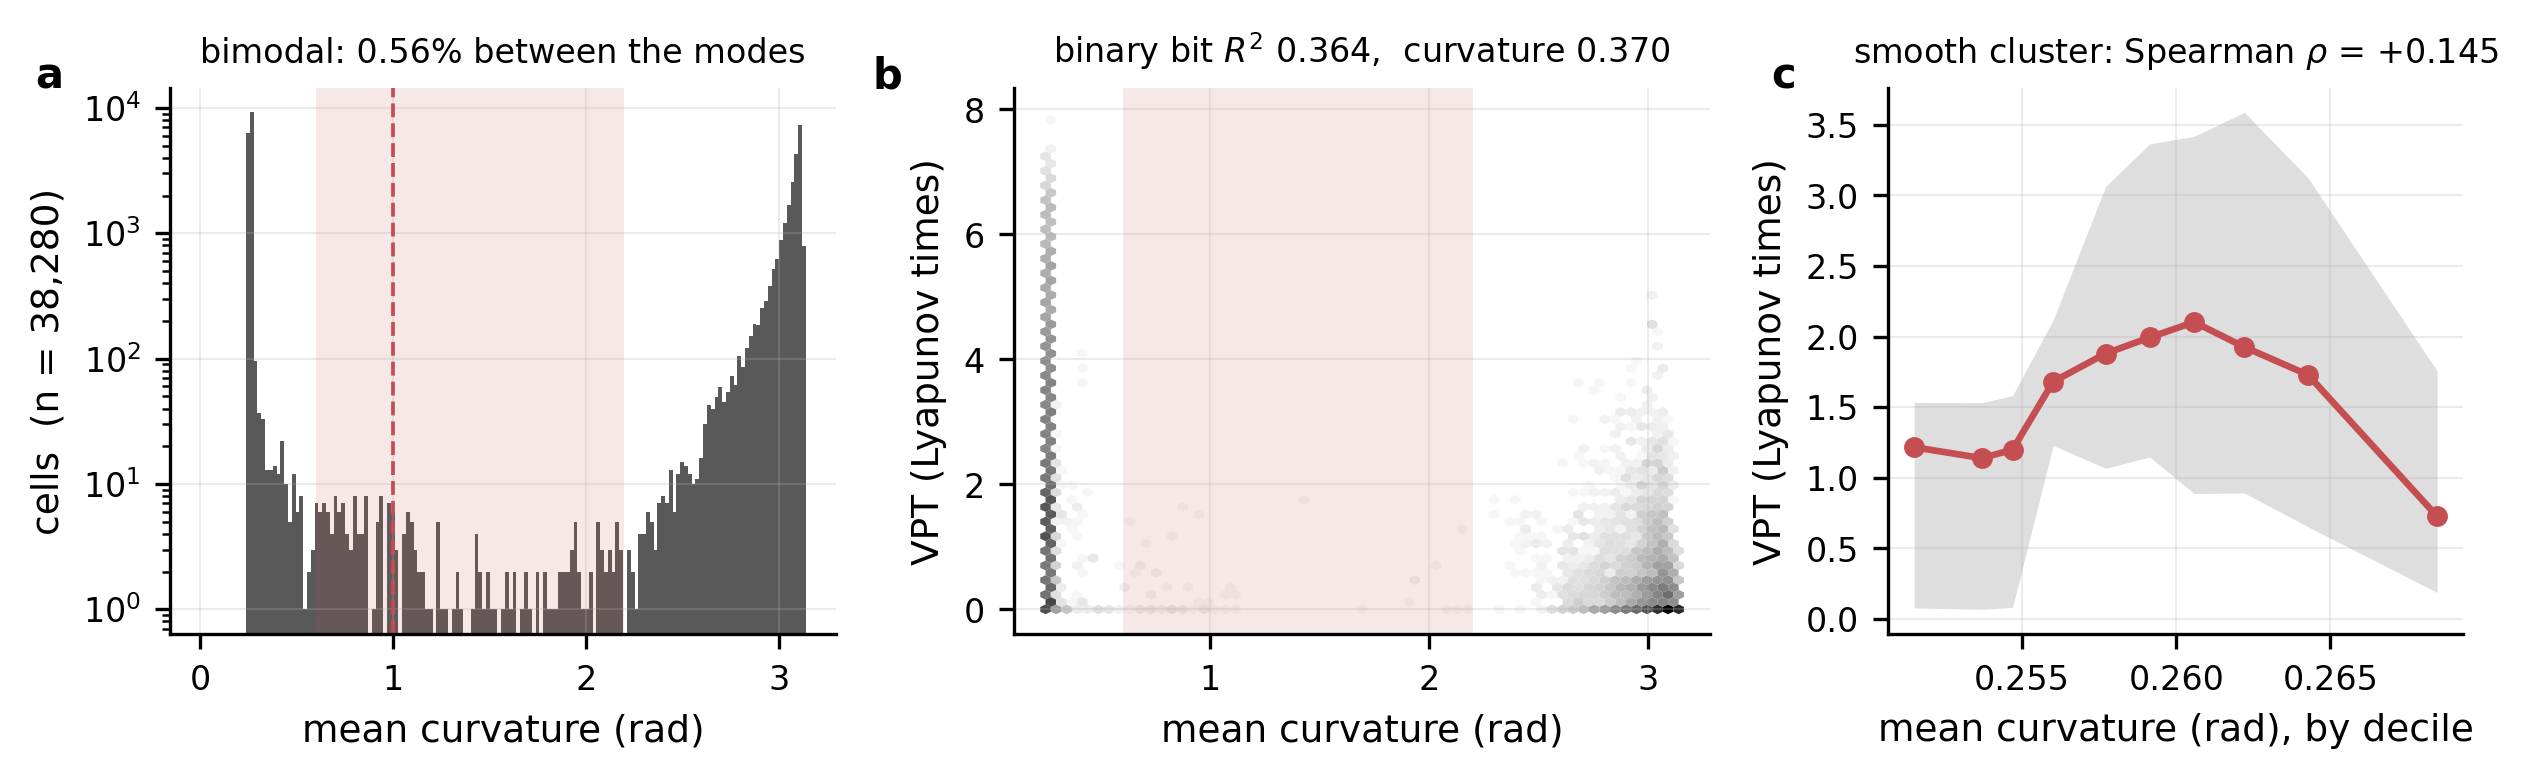
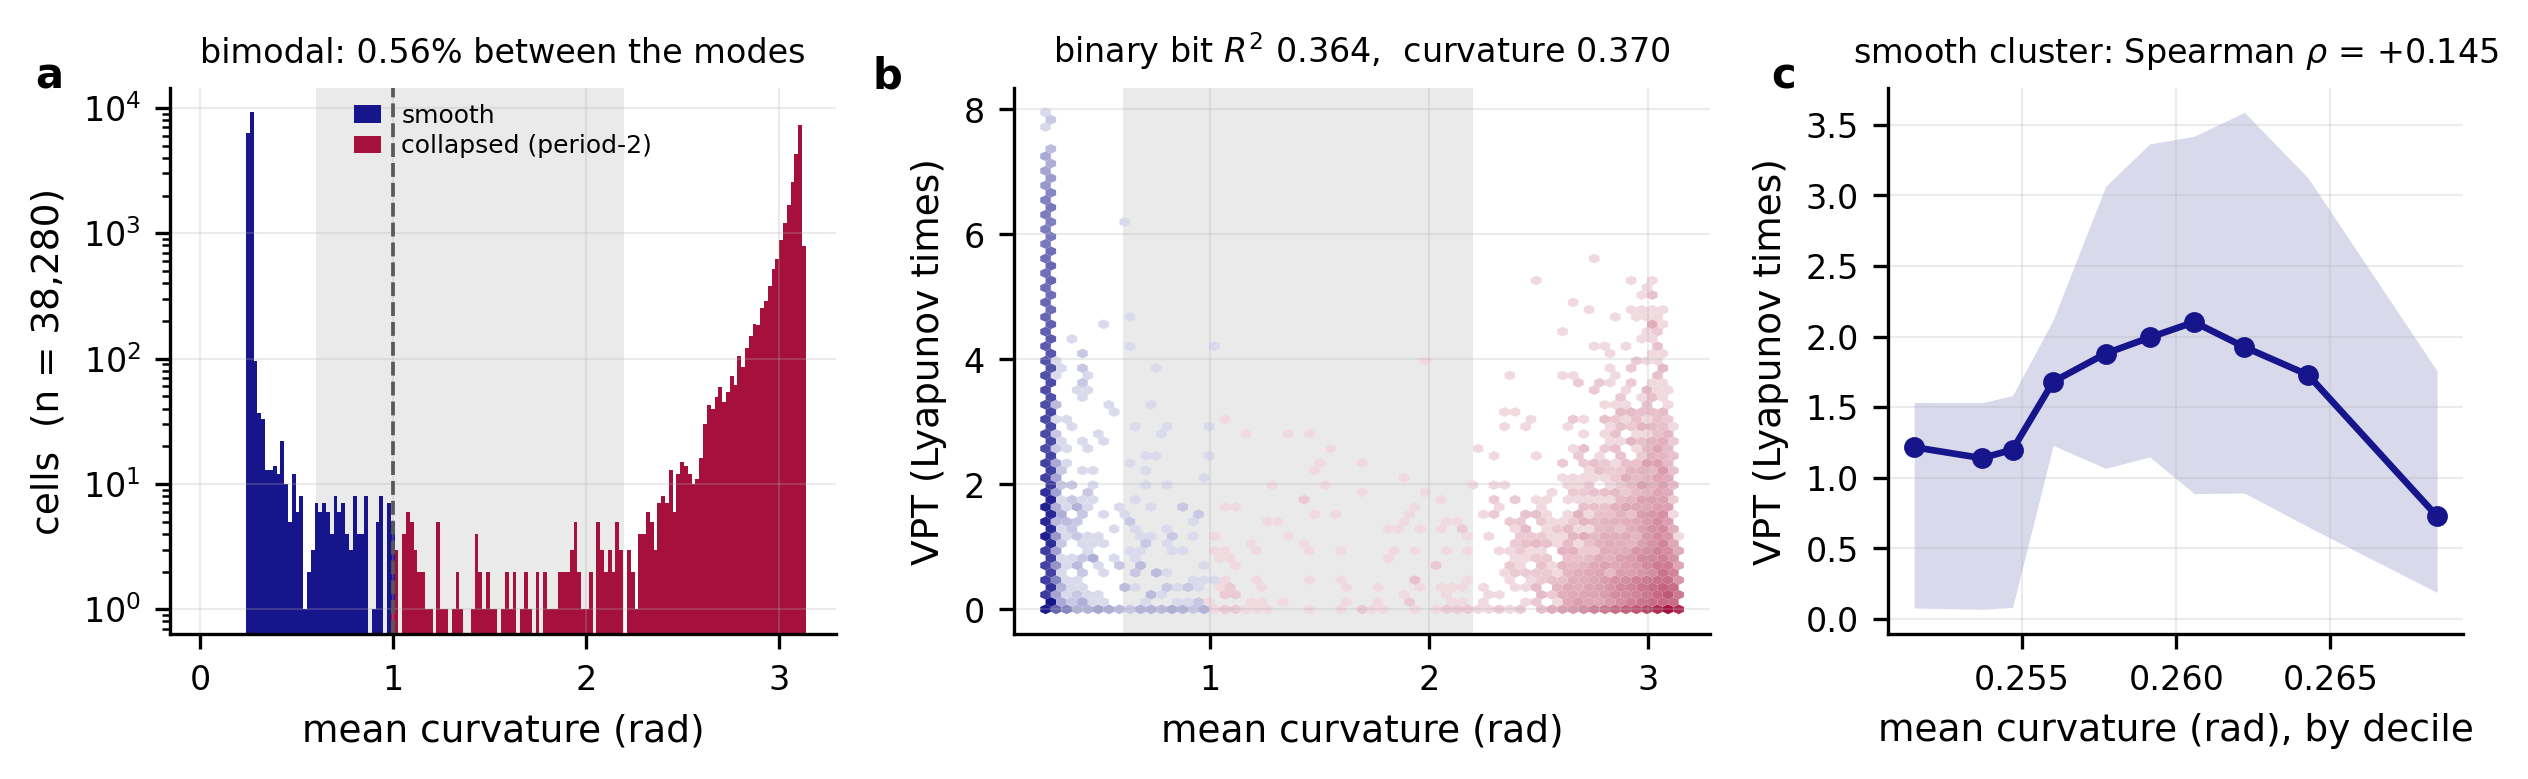
feat(F12): colour cells by the collapse bit; add a measured regime palette
F12's panels were grey. They are now coloured by which side of the collapse
separator each cell falls on, which makes the colour the binary bit whose
R2 panel (b) reports -- the figure shows what the bit is instead of asking
the reader to take it on trust. Panels (a) and (b) draw two series each,
panel (c) takes the smooth colour because it is the smooth cluster, and the
band and separator drop to neutral grey so furniture stops competing with
the two colours that now carry meaning.

style.REGIME_COLOUR joins VARIANT/BASIS/BOUNDARY/AXIS as a fourth small
namespace, on the same principle: a regime is not a substrate.

Chosen by measurement, and the measurement overturned the first choice.
ColorBrewer RdBu's blue/red was picked first on the grounds that RdBu is
certified colourblind-safe -- true, and not the question. Run through
style._lab, the module's existing Vienot/Brettel simulation, that pair sits
dE 0.7 from degree-matching's #0072B2 under one dichromacy: a substrate hue
on a non-substrate quantity, thesis-wide, and it looked fine by eye. A grid
search over 384 inks gives indigo #17158c / crimson #a5103d instead --
dE 22.9 from every substrate colour against the comparable existing floor of
8.0, dE 10.4 from every furniture colour, dE 56.5 between the regimes.

check_regime_palette() re-derives those numbers and runs in the smoke entry
point, next to check_basis_palette(). Greyscale separation is weak (0.026
[…]

diff --git a/report/figlib/style.py b/report/figlib/style.py
@@ -190,6 +190,58 @@ AXIS_SHORT = {"nominal": "nominal", "effective": r"$\sigma\cdot$bulk95"}
 # the nominal axis is one colour everywhere it is set against the matched one.
 AXIS_COLOUR = {"nominal": "#1f77b4", "effective": "#c44e52"}
 
+# ------------------------------------------------------------------------- regimes
+# The two dynamical regimes: smooth (the fixed-point branch) and collapsed (period-2).
+# A fourth small namespace, added in session 4 for exactly the reason BOUNDARY_COLOUR and
+# AXIS_COLOUR exist -- a regime is not a substrate, and one regime should be one colour
+# wherever it appears. F12 colours its cells by which side of the collapse separator they
+# fall on; S2 contrasts the same two regimes directly.
+#
+# **Colour is carrying the claim here, not decorating.** F12's result is that a single
+# binary bit -- collapsed or not -- explains as much of the prediction score as continuous
+# curvature does. Colouring by that bit is showing the reader what the bit *is*.
+#
+# **Chosen by measurement, in the same idiom as BASIS_COLOUR, and the measurement changed
+# the answer.** The first pick was ColorBrewer RdBu's blue/red (#2166AC / #D6604D) on the
+# reasoning that RdBu is a certified colourblind-safe scheme. Measured, that pair sits
+# **dE 0.7** from a substrate colour -- indistinguishable from degree-matching's #0072B2
+# under one of the dichromacies -- which would have put a substrate hue on a
+# non-substrate quantity. A grid search over 384 candidate inks, scored on worst-case
+# CIE76 dE across normal vision and the three dichromacies, gives the pair below:
+#
+#   * **dE 22.9** from every substrate colour (BASIS_VARIANT_FLOOR, the comparable
+#     existing floor, is 8.0)
+#   * **dE 10.4** from every furniture colour already in use
+#   * **dE 56.5** between the two regimes themselves
+#
+# **Greyscale separation is weak (relative luminance 0.026 against 0.087) and that is
+# accepted, on a stated reason.** The variant and basis palettes need luminance separation
+# because their series overlap inside one panel and colour is the only thing telling them
+# apart. Regimes never overlap: in F12 the two sit at opposite ends of the curvature axis
+# with a near-empty band between them, and in S2 they are in different panels. Position
+# disambiguates, so hue is reinforcing rather than load-bearing. **If a figure ever needs
+# the two regimes interleaved along an axis, this pair is wrong for it** -- that is a
+# scope question, not a palette one.
+REGIME_COLOUR = {"smooth": "#17158c", "collapsed": "#a5103d"}
+REGIME_LABEL = {"smooth": "smooth", "collapsed": "collapsed (period-2)"}
+REGIME_VARIANT_FLOOR = 15.0        # a regime colour against any substrate colour
+REGIME_SEPARATION_FLOOR = 40.0     # the two regimes against each other
+
+
+def regime_cmap(regime: str):
+    """A pale-to-saturated colormap in one regime's colour, for density panels.
+
+    Starts at a light tint rather than white so a single-count hexagon is still visible
+    on the page, and ends at the regime colour itself. Used by F12b, which draws the two
+    regimes as two hexbins so the density map carries the same encoding as F12a's bars.
+    """
+    import numpy as np
+    from matplotlib.colors import LinearSegmentedColormap, to_rgb
+    base = np.array(to_rgb(REGIME_COLOUR[regime]))
+    pale = 1.0 - 0.16 * (1.0 - base)          # 16% of the way from white to the colour
+    return LinearSegmentedColormap.from_list(f"regime_{regime}", [pale, base])
+
+
 # The two phase boundaries. Not variants, so they get their own pair, held fixed for
 # the same reason the variant colours are: the memory boundary is one colour everywhere.
 BOUNDARY_COLOUR = {"dD": "#1f77b4", "dStraight": "#d95f02"}
@@ -400,6 +452,30 @@ def check_basis_palette() -> dict:
         f"{versus:.1f}, floor {BASIS_VARIANT_FLOOR}. F4 draws bases in (a) beside "
         "variants in (b), so a shared hue would carry two meanings in one figure.")
     return {"among_bases": among, "vs_variants": versus}
+
+
+def check_regime_palette() -> dict:
+    """Assert the regime pair stays clear of the substrate palette and of itself.
+
+    Re-derives the numbers the pair was chosen on, so a later edit cannot reintroduce the
+    failure the first attempt had: a regime colour a reader would read as a substrate.
+    The greyscale margin is deliberately NOT asserted -- see the note on REGIME_COLOUR.
+    """
+    import numpy as np
+    visions = ("normal", "protanopia", "deuteranopia", "tritanopia")
+    smooth, collapsed = REGIME_COLOUR["smooth"], REGIME_COLOUR["collapsed"]
+    between = min(float(np.linalg.norm(_lab(smooth, v) - _lab(collapsed, v)))
+                  for v in visions)
+    versus = min(float(np.linalg.norm(_lab(REGIME_COLOUR[k], v) - _lab(c, v)))
+                 for v in visions for k in REGIME_COLOUR for c in VARIANT_COLOUR.values())
+    assert between >= REGIME_SEPARATION_FLOOR, (
+        f"the two regime colours are not separable: worst dE {between:.1f} over normal "
+        f"vision and the three dichromacies, floor {REGIME_SEPARATION_FLOOR}.")
+    assert versus >= REGIME_VARIANT_FLOOR, (
+        f"a regime colour collides with a substrate colour: worst dE {versus:.1f}, floor "
+        f"{REGIME_VARIANT_FLOOR}. A regime is not a substrate and must not borrow its "
+        "hue -- this is the check the first RdBu pick failed at dE 0.7.")
+    return {"between_regimes": between, "vs_variants": versus}
 
 
 def check_colour_consistency() -> None:

diff --git a/report/figlib/figures/act3_prediction.py b/report/figlib/figures/act3_prediction.py
@@ -85,9 +85,19 @@ def f12_curvature_is_bimodal(ctx):
                              gridspec_kw=dict(width_ratios=[1.1, 1.15, 0.95]))
 
     # --- (a) the two spikes and the empty band ------------------------------------
-    axes[0].hist(curvature, bins=np.linspace(0, np.pi, 160), color="0.35")
-    axes[0].axvspan(*CURVATURE_GAP, color=style.ANNOTATION_ACCENT, alpha=0.13, lw=0)
-    axes[0].axvline(COLLAPSE_BIT, color=style.ANNOTATION_ACCENT, lw=0.9, ls="--")
+    # Two histograms on one grid, split at the separator, so the colour a bar carries IS
+    # the binary bit whose R^2 panel (b) reports. The band and the separator drop to
+    # neutral grey: they are furniture now, and leaving them in the accent would have
+    # them competing with the two colours that mean something.
+    bins = np.linspace(0, np.pi, 160)
+    for regime, mask in (("smooth", curvature < COLLAPSE_BIT),
+                         ("collapsed", curvature >= COLLAPSE_BIT)):
+        axes[0].hist(curvature[mask], bins=bins, color=style.REGIME_COLOUR[regime],
+                     label=style.REGIME_LABEL[regime])
+    axes[0].axvspan(*CURVATURE_GAP, color="0.85", alpha=0.55, lw=0, zorder=0)
+    axes[0].axvline(COLLAPSE_BIT, color="0.35", lw=0.9, ls="--")
+    style.legend(axes[0], loc="upper center", fontsize=style.LEGEND_SIZE - 2,
+                 handlelength=1.1, labelspacing=0.25, borderpad=0.15)
     axes[0].set_yscale("log")
     axes[0].set_xlabel("mean curvature (rad)")
     axes[0].set_ylabel(f"cells  (n = {n_cells:,})")
@@ -116,9 +126,16 @@ def f12_curvature_is_bimodal(ctx):
         f"F12: binary-bit R2 {r2_bit:.4f} / continuous {r2_continuous:.4f} against "
         f"TIER0 §3.10's {R2_BIT} / {R2_CONTINUOUS}. The published pair is reproduced by "
         "splitting at CURV_COLLAPSE = 1.0; do not adjust the threshold to fit.")
-    axes[1].hexbin(curvature, vpt, gridsize=(60, 34), bins="log",
-                   cmap="Greys", mincnt=1, linewidths=0, rasterized=True)
-    axes[1].axvspan(*CURVATURE_GAP, color=style.ANNOTATION_ACCENT, alpha=0.13, lw=0)
+    # One hexbin per regime on a shared extent, each in its own regime colour, so the
+    # density map carries the same encoding as (a)'s bars rather than a second one.
+    extent = (float(curvature.min()), float(curvature.max()),
+              float(vpt.min()), float(vpt.max()))
+    for regime, mask in (("smooth", curvature < COLLAPSE_BIT),
+                         ("collapsed", curvature >= COLLAPSE_BIT)):
+        axes[1].hexbin(curvature[mask], vpt[mask], gridsize=(60, 34), bins="log",
+                       cmap=style.regime_cmap(regime), mincnt=1, linewidths=0,
+                       extent=extent, rasterized=True)
+    axes[1].axvspan(*CURVATURE_GAP, color="0.85", alpha=0.55, lw=0, zorder=0)
     axes[1].set_xlabel("mean curvature (rad)")
     axes[1].set_ylabel("VPT (Lyapunov times)")
     floor = float((vpt == 0).mean())
@@ -143,8 +160,12 @@ def f12_curvature_is_bimodal(ctx):
     medians = np.array([np.median(vpt[straight][index == k]) for k in range(10)])
     q25 = np.array([np.quantile(vpt[straight][index == k], 0.25) for k in range(10)])
     q75 = np.array([np.quantile(vpt[straight][index == k], 0.75) for k in range(10)])
-    axes[2].fill_between(centres, q25, q75, color="0.75", alpha=0.5, lw=0)
-    axes[2].plot(centres, medians, marker="o", ms=4, color=style.ANNOTATION_ACCENT, lw=1.6)
+    # This panel IS the smooth cluster, so it takes the smooth colour rather than the
+    # generic accent -- one regime, one colour, across the figure and across S2.
+    axes[2].fill_between(centres, q25, q75, color=style.REGIME_COLOUR["smooth"],
+                         alpha=0.16, lw=0)
+    axes[2].plot(centres, medians, marker="o", ms=4, lw=1.6,
+                 color=style.REGIME_COLOUR["smooth"])
     axes[2].set_xlabel("mean curvature (rad), by decile")
     axes[2].set_ylabel("VPT (Lyapunov times)")
     axes[2].set_title(r"smooth cluster: Spearman $\rho$ = " f"+{rho:.3f}",

diff --git a/report/figlib/__main__.py b/report/figlib/__main__.py
@@ -64,6 +64,7 @@ def main(argv) -> int:
 
     style.check_colour_consistency()
     style.check_basis_palette()
+    style.check_regime_palette()
     if "--smoke" in argv:
         return _render(list(ALL_FIGURES), placeholder=True, subdir="_smoke")
     if "--only" in argv:

diff --git a/report/act3b_prediction.md b/report/act3b_prediction.md
@@ -245,6 +245,15 @@ One block per figure ID from `FIGURE_LIST.md`. **Caption written before the figu
 > floor fraction, and the sign of ρ. A title cannot drift from the data, and neither can
 > the caption, without the build failing.
 
+> **Colour encodes the binary bit** (added 20 August 2026; see §5 item 13 for the palette
+> decision). Panels (a) and (b) are drawn as **two** series split at the collapse
+> separator, in the two `style.REGIME_COLOUR` inks, and panel (c) — which *is* the smooth
+> cluster — takes the smooth ink. So the colour a cell carries is exactly the
+> collapsed-or-not bit whose R² panel (b) reports: the figure shows the reader what the
+> bit is rather than asking them to take it on trust. The band and the separator dropped
+> to neutral grey in the same change, because furniture in an accent colour would have
+> competed with the two colours that now mean something.
+
 - **Caption (final wording):** *Predictive capacity is gated by a regime, not graded by
   curvature.* Each point is one **cell**: one Lorenz evaluation of one substrate at one
   sign fraction, spectral radius, seed and flip realisation (38,280 in all; the
@@ -257,8 +266,9 @@ One block per figure ID from `FIGURE_LIST.md`. **Caption written before the figu
   period-2 mode at ~π. The shaded band marks the interval [0.6, 2.2] rad between them,
   which holds **216 cells, 0.56% of the panel**; the dashed line at 1 rad is the
   collapsed-or-not separator, which sits inside that empty band and is therefore not a
-  tuned threshold. Curvature is not a quantity this substrate takes intermediate values
-  of.
+  tuned threshold. **Colour throughout the figure is that separator** — indigo for cells
+  the bit calls smooth, crimson for cells it calls collapsed. Curvature is not a quantity
+  this substrate takes intermediate values of.
   **(b)** Against valid-prediction time, a single binary "has it collapsed" bit explains
   **R² = 0.364** of the variance; the continuous quantity manages **0.370**. The entire
   0.25 → 3.14 rad range is worth **0.7 percentage points** beyond the bit. **41% of cells
@@ -653,6 +663,43 @@ written by hand, not generated (see the roadmap §4b note on drafting).
     **structural** ones stay live on both paths — F14's assertion that panels (a) and (b)
     hold the same population, F16's assertion that a crossing exists at all on the
     effective axis and that no line is drawn at `σ_eff` = 1, S2's straddle check.
+
+13. **A fourth colour namespace, chosen by measurement — and the measurement overturned
+    the first choice.** F12's colour now encodes the collapsed-or-not bit rather than
+    decorating, which needed a regime pair distinct from the substrate palette, so
+    `style.REGIME_COLOUR` joins `VARIANT_COLOUR`, `BASIS_COLOUR`, `BOUNDARY_COLOUR` and
+    `AXIS_COLOUR` as its own small namespace, on the same principle: a regime is not a
+    substrate, and one regime is one colour wherever it appears.
+
+    **The first pick was wrong and only measurement caught it.** ColorBrewer RdBu's
+    blue/red (#2166AC / #D6604D) was chosen on the reasoning that RdBu is a certified
+    colourblind-safe scheme — which is true, and irrelevant to the question actually being
+    asked. Run through `style._lab`, the module's existing Vienot/Brettel dichromacy
+    simulation, that pair sits **dE 0.7** from a substrate colour: under one of the
+    dichromacies it is indistinguishable from degree-matching's #0072B2. It would have put
+    a substrate hue on a non-substrate quantity, thesis-wide, and it looked entirely
+    defensible.
+
+    A grid search over 384 candidate inks, scored on worst-case CIE76 dE across normal
+    vision and all three dichromacies, returns **indigo #17158c / crimson #a5103d**:
+    dE **22.9** from every substrate colour (the comparable existing floor,
+    `BASIS_VARIANT_FLOOR`, is 8.0), dE **10.4** from every furniture colour, dE **56.5**
+    between the two regimes. `check_regime_palette()` re-derives all of it and is run by
+    the smoke entry point, so the choice cannot silently drift — the same guard
+    `check_basis_palette()` provides for Act II.
+
+    **One property is knowingly not met, and it is asserted nowhere for that reason.**
+    Greyscale separation is weak: relative luminance 0.026 against 0.087. The variant and
+    basis palettes need luminance separation because their series overlap inside a panel
+    and colour is the only thing separating them. Regimes never overlap — in F12 they sit
+    at opposite ends of the curvature axis with a near-empty band between, and in S2 they
+    are in different panels — so position disambiguates and hue is reinforcing rather than
+    load-bearing. If a figure ever needs the two regimes interleaved along one axis, this
+    pair is wrong for it, and that is a scope question rather than a palette one.
+
+    **S2 should follow.** It contrasts the same two regimes and currently draws them in
+    neutral grey and the generic accent, so it is the one remaining place where a regime
+    is not in its regime colour. Not changed here, because S2 has not been reviewed yet.
 
 11. **What this act ran, and what it deliberately did not.** Two captures, both on the
     laptop, both costed from a measured cell of the real code path (**1.27 s/cell**, not a
